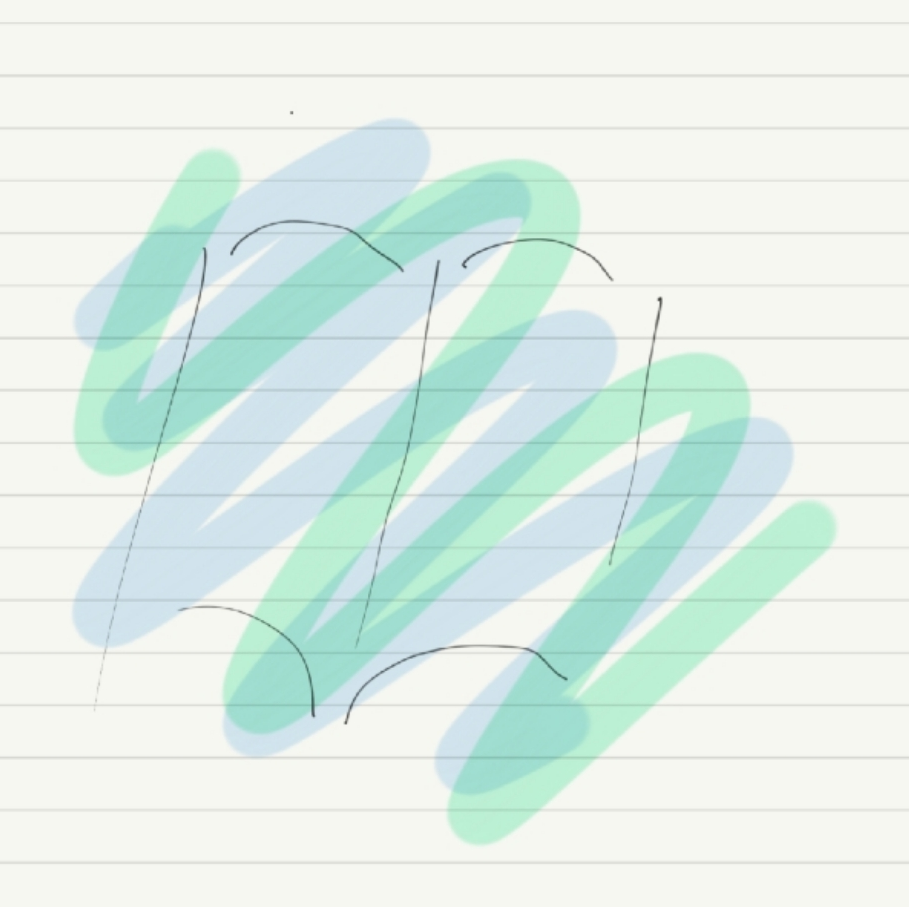
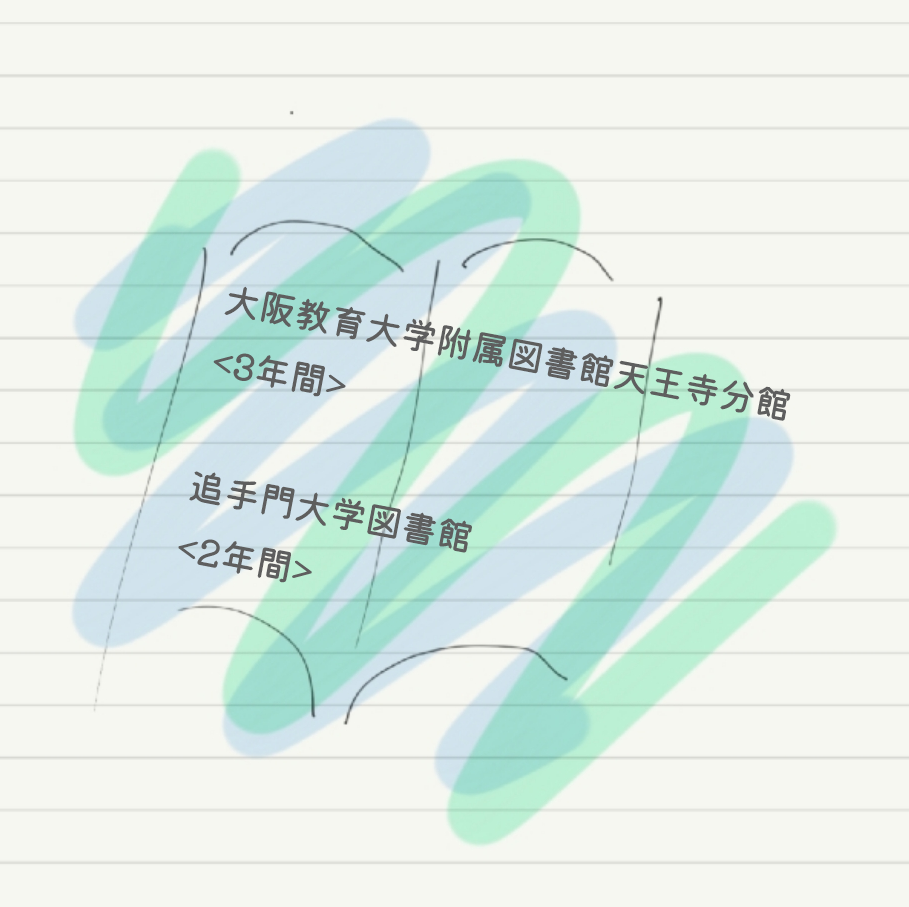
_202204221246_

Changed region(s): [[0.2464, 0.3087, 0.8933, 0.4631], [0.1848, 0.5248, 0.5237, 0.6483]]

diff --git a/README.md b/README.md
@@ -7,12 +7,14 @@
 ---
 
 >### 図書館司書としての実績
->- 大阪教育大学附属図書館天王寺分館<3年> ・ 追手門大学図書館<2年> 
-
-<img width="200" alt="青と緑の本" src="https://raw.githubusercontent.com/n0120/20220422/main/_book_bg_.png">
+//>- 大阪教育大学附属図書館天王寺分館<3年> ・ 追手門大学図書館<2年> 
+<img width="400" alt="青と緑の本" src="https://raw.githubusercontent.com/n0120/20220422/main/_book_bg_.png">
 
 >### AIコンサルタントとして
 >- 大阪ハイテクノロジー専門学校にて人工知能の専門知識の学習
+
+>### 得意言語
+>- python
 
 >### 学習の過程で作成したゲームの一つ
 >- [_hit_and_blow_](https://colab.research.google.com/drive/1d3IIqtw-FMP9F3DTX2doLGmD3RrOSqfV?usp=sharing)
